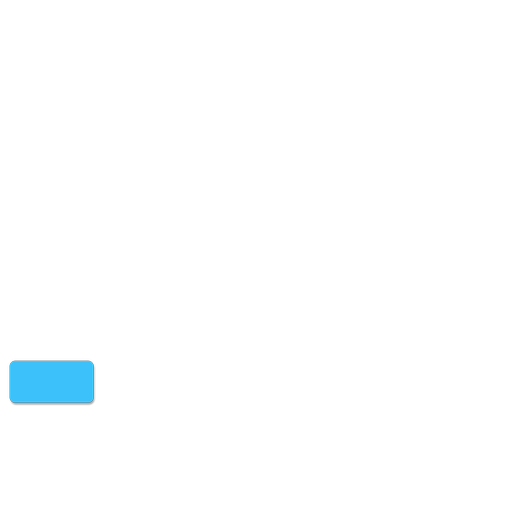
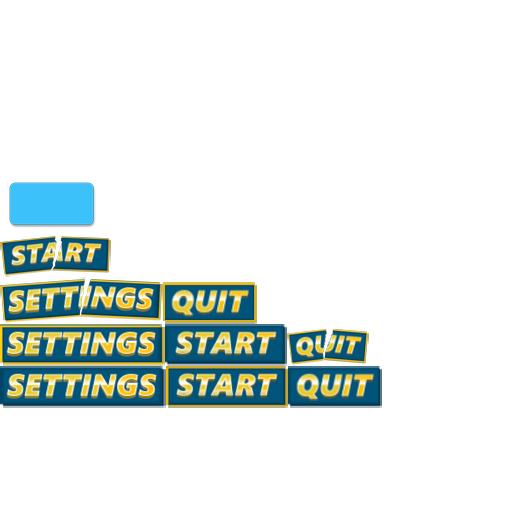
mainmenu button style change

Changed region(s): [[0.0, 0.3438, 0.75, 0.8125]]

diff --git a/source/core/src/main/com/deco2800/game/components/mainmenu/MainMenuDisplay.java b/source/core/src/main/com/deco2800/game/components/mainmenu/MainMenuDisplay.java
@@ -46,10 +46,9 @@ public class MainMenuDisplay extends UIComponent {
 
     Skin menuButtons = new Skin(Gdx.files.internal("mainMenuSkin/mainMenu.json"));
 
-    TextButton startBtn = new TextButton("Start", menuButtons);
-    TextButton loadBtn = new TextButton("Load", menuButtons);
-    TextButton settingsBtn = new TextButton("Settings", menuButtons);
-    TextButton exitBtn = new TextButton("Exit", menuButtons);
+    Button startBtn = new Button(menuButtons, "start");
+    Button settingsBtn = new Button(menuButtons, "settings");
+    Button exitBtn = new Button(menuButtons, "quit");
 
     // Triggers an event when the button is pressed
     startBtn.addListener(
@@ -61,14 +60,6 @@ public class MainMenuDisplay extends UIComponent {
           }
         });
 
-    loadBtn.addListener(
-        new ChangeListener() {
-          @Override
-          public void changed(ChangeEvent changeEvent, Actor actor) {
-            logger.debug("Load button clicked");
-            entity.getEvents().trigger("load");
-          }
-        });
 
     settingsBtn.addListener(
         new ChangeListener() {
@@ -91,8 +82,6 @@ public class MainMenuDisplay extends UIComponent {
 
 
     table.add(startBtn).padTop(30f);
-    table.row();
-    table.add(loadBtn).padTop(30f);
     table.row();
     table.add(settingsBtn).padTop(30f);
     table.row();
